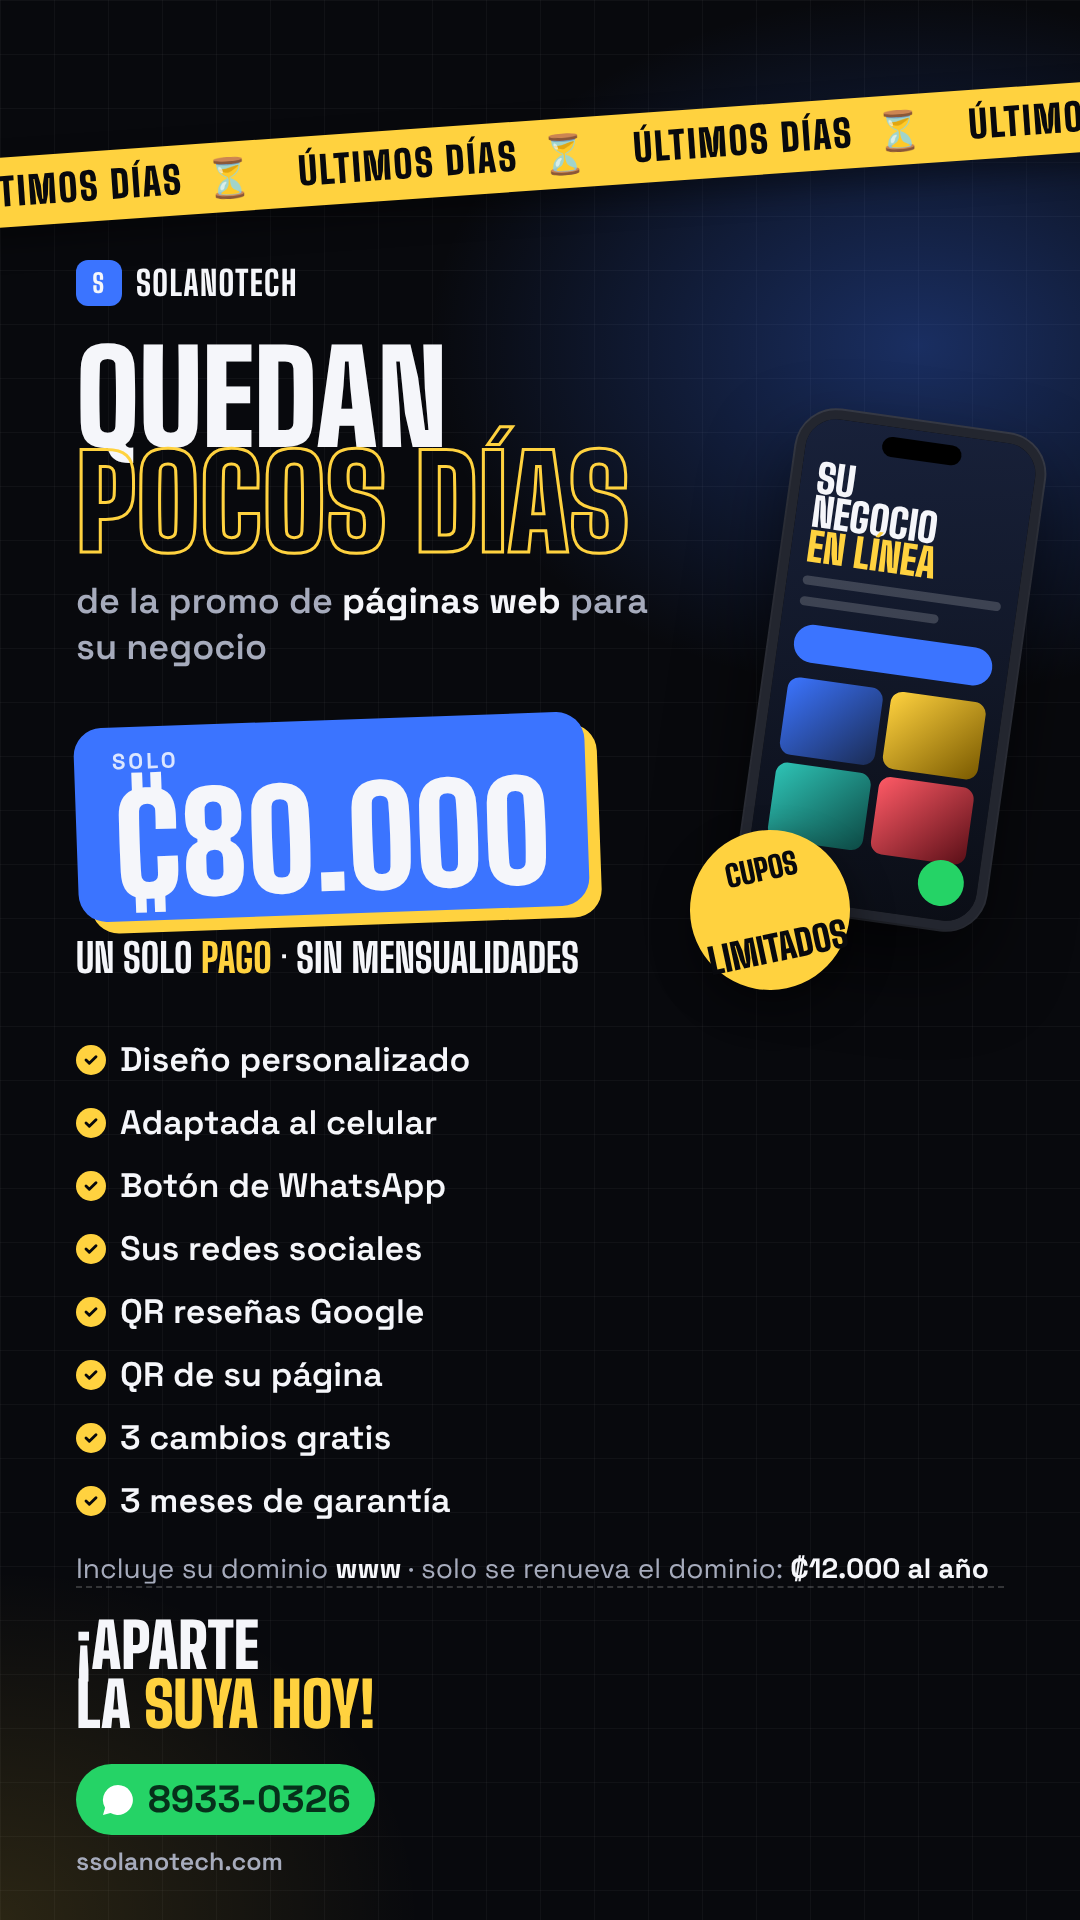
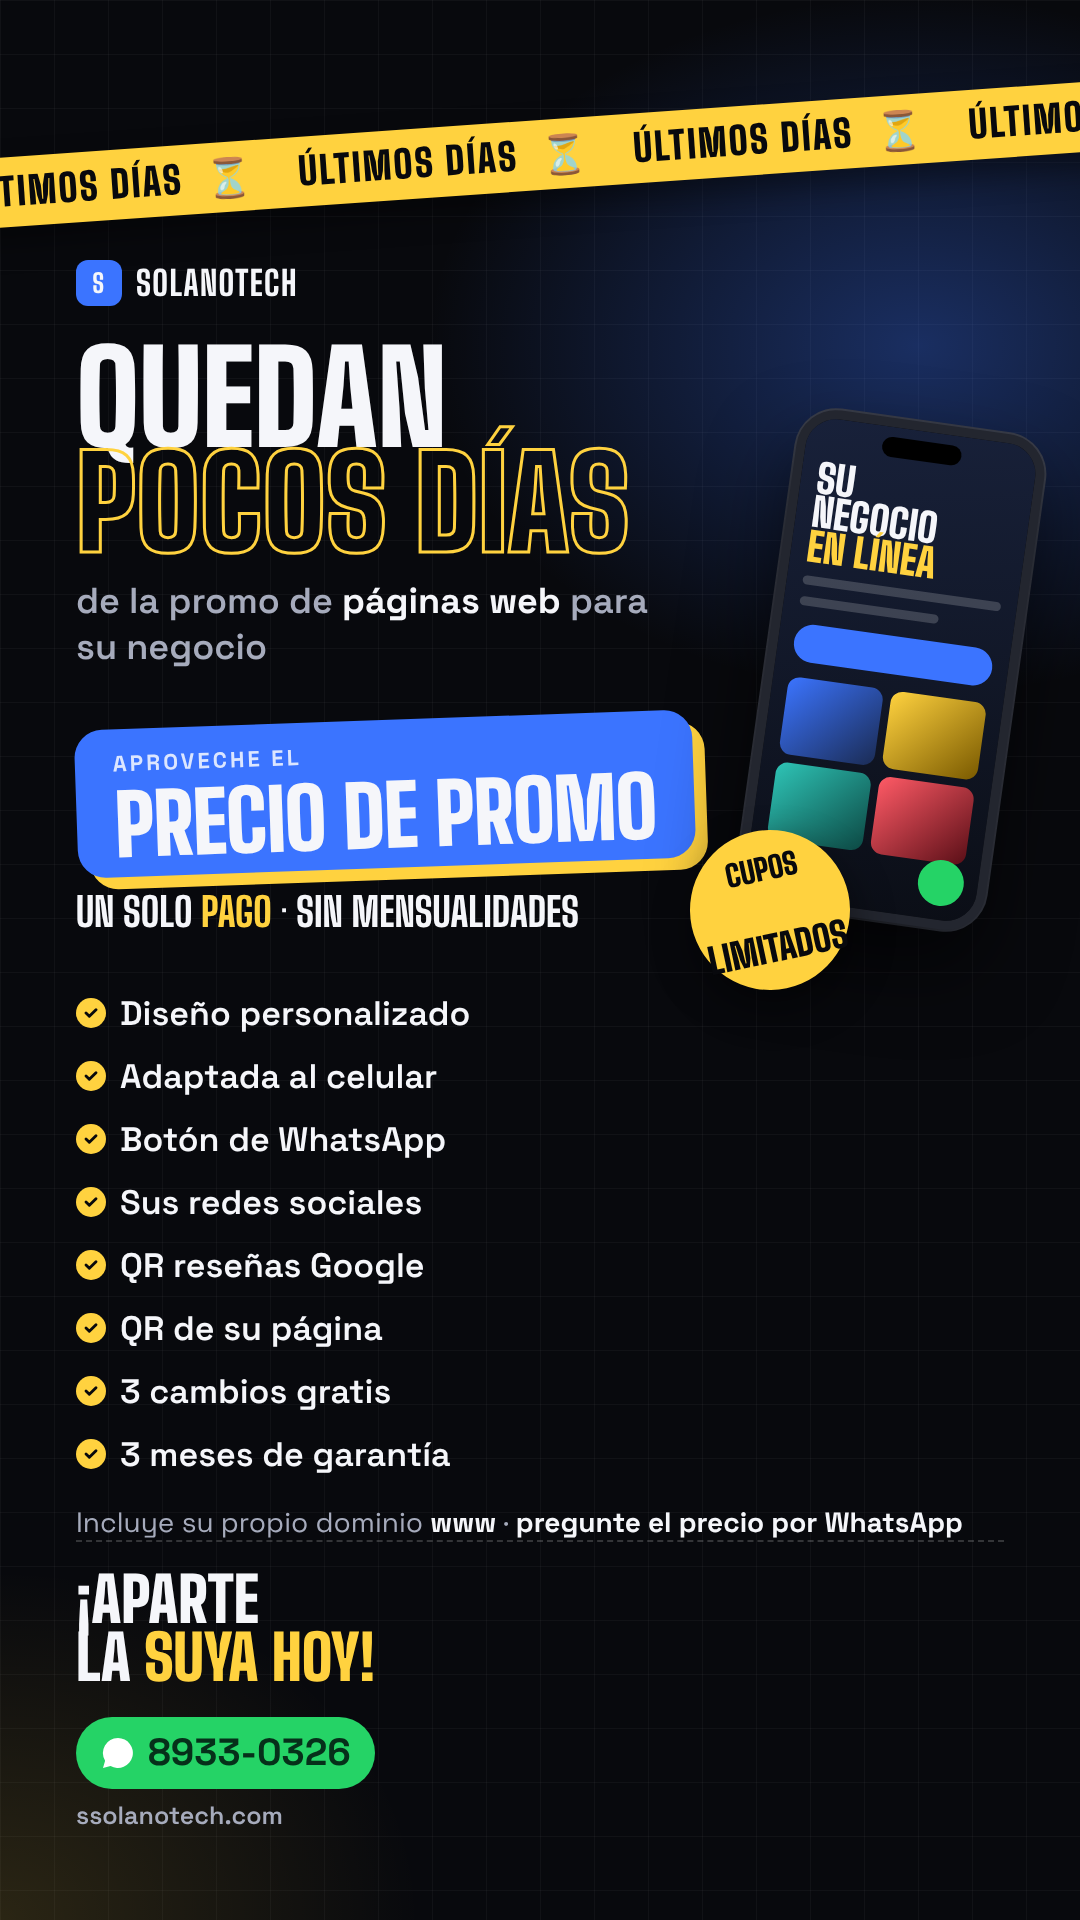
Promo de páginas web sin precio
Claude-Session: https://claude.ai/code/session_01XyaXnffiHNGSgLBRVYYTi9

Changed region(s): [[0.0611, 0.3438, 0.9167, 0.9688]]

diff --git a/solanotech/promos/promo.html b/solanotech/promos/promo.html
@@ -24,7 +24,7 @@ body{width:1080px;height:var(--h,1350px);background:var(--n);color:var(--bl);fon
 .precio{margin-top:34px;display:flex;flex-direction:column;align-items:flex-start;gap:24px;max-width:620px}
 .monto{background:var(--az);border-radius:28px;padding:20px 38px 14px;transform:rotate(-2deg);box-shadow:12px 12px 0 var(--am)}
 .monto small{display:block;margin-bottom:10px;font-weight:700;font-size:22px;letter-spacing:.14em;text-transform:uppercase;color:#DCE6FF}
-.monto b{display:block;font-family:var(--t);font-weight:900;font-size:136px;line-height:.9;letter-spacing:-.01em}
+.monto b{display:block;font-family:var(--t);font-weight:900;font-size:84px;white-space:nowrap;text-transform:uppercase;line-height:.9;letter-spacing:-.01em}
 .unico{font-family:var(--t);font-weight:800;font-size:40px;line-height:1;text-transform:uppercase}
 .unico span{color:var(--am)}
 .lista{margin-top:40px;display:grid;grid-template-columns:1fr 1fr;gap:16px 26px;font-size:28px;font-weight:600}
@@ -77,7 +77,7 @@ body.hist .datos{text-align:left}
   <h1 class="ultimos">Quedan<em>pocos días</em></h1>
   <p class="sub">de la promo de <b>páginas web</b> para su negocio</p>
   <div class="precio">
-    <div class="monto"><small>Solo</small><b>₡80.000</b></div>
+    <div class="monto"><small>Aproveche el</small><b>precio de promo</b></div>
     <div class="unico">Un solo <span>pago</span> · sin mensualidades</div>
   </div>
   <div class="lista">
@@ -90,7 +90,7 @@ body.hist .datos{text-align:left}
     <div>3 cambios gratis</div>
     <div>3 meses de garantía</div>
   </div>
-  <p class="dominio">Incluye su dominio <b>www</b> · solo se renueva el dominio: <b>₡12.000 al año</b></p>
+  <p class="dominio">Incluye su propio dominio <b>www</b> · <b>pregunte el precio por WhatsApp</b></p>
   <div class="pie">
     <div class="cta">¡Aparte<br>la <span>suya hoy!</span></div>
     <div class="datos"><span class="wa"><svg viewBox="0 0 24 24" fill="#fff"><path d="M12 2a10 10 0 0 0-8.6 15.1L2 22l5-1.3A10 10 0 1 0 12 2Zm4.5 12.1c-.2-.1-1.5-.7-1.7-.8-.2-.1-.4-.1-.6.1l-.8 1c-.1.2-.3.2-.5.1a6.7 6.7 0 0 1-3.3-2.9c-.3-.4.3-.4.7-1.4.1-.2 0-.3 0-.4l-.8-1.8c-.2-.5-.4-.4-.6-.4h-.5a1 1 0 0 0-.7.3 3 3 0 0 0-.9 2.2 5.2 5.2 0 0 0 1.1 2.7 11.8 11.8 0 0 0 4.5 4c1.7.7 2.3.8 3.2.6a2.7 2.7 0 0 0 1.8-1.2c.2-.6.2-1 .1-1.2z"/></svg>8933-0326</span><small>ssolanotech.com</small></div>
